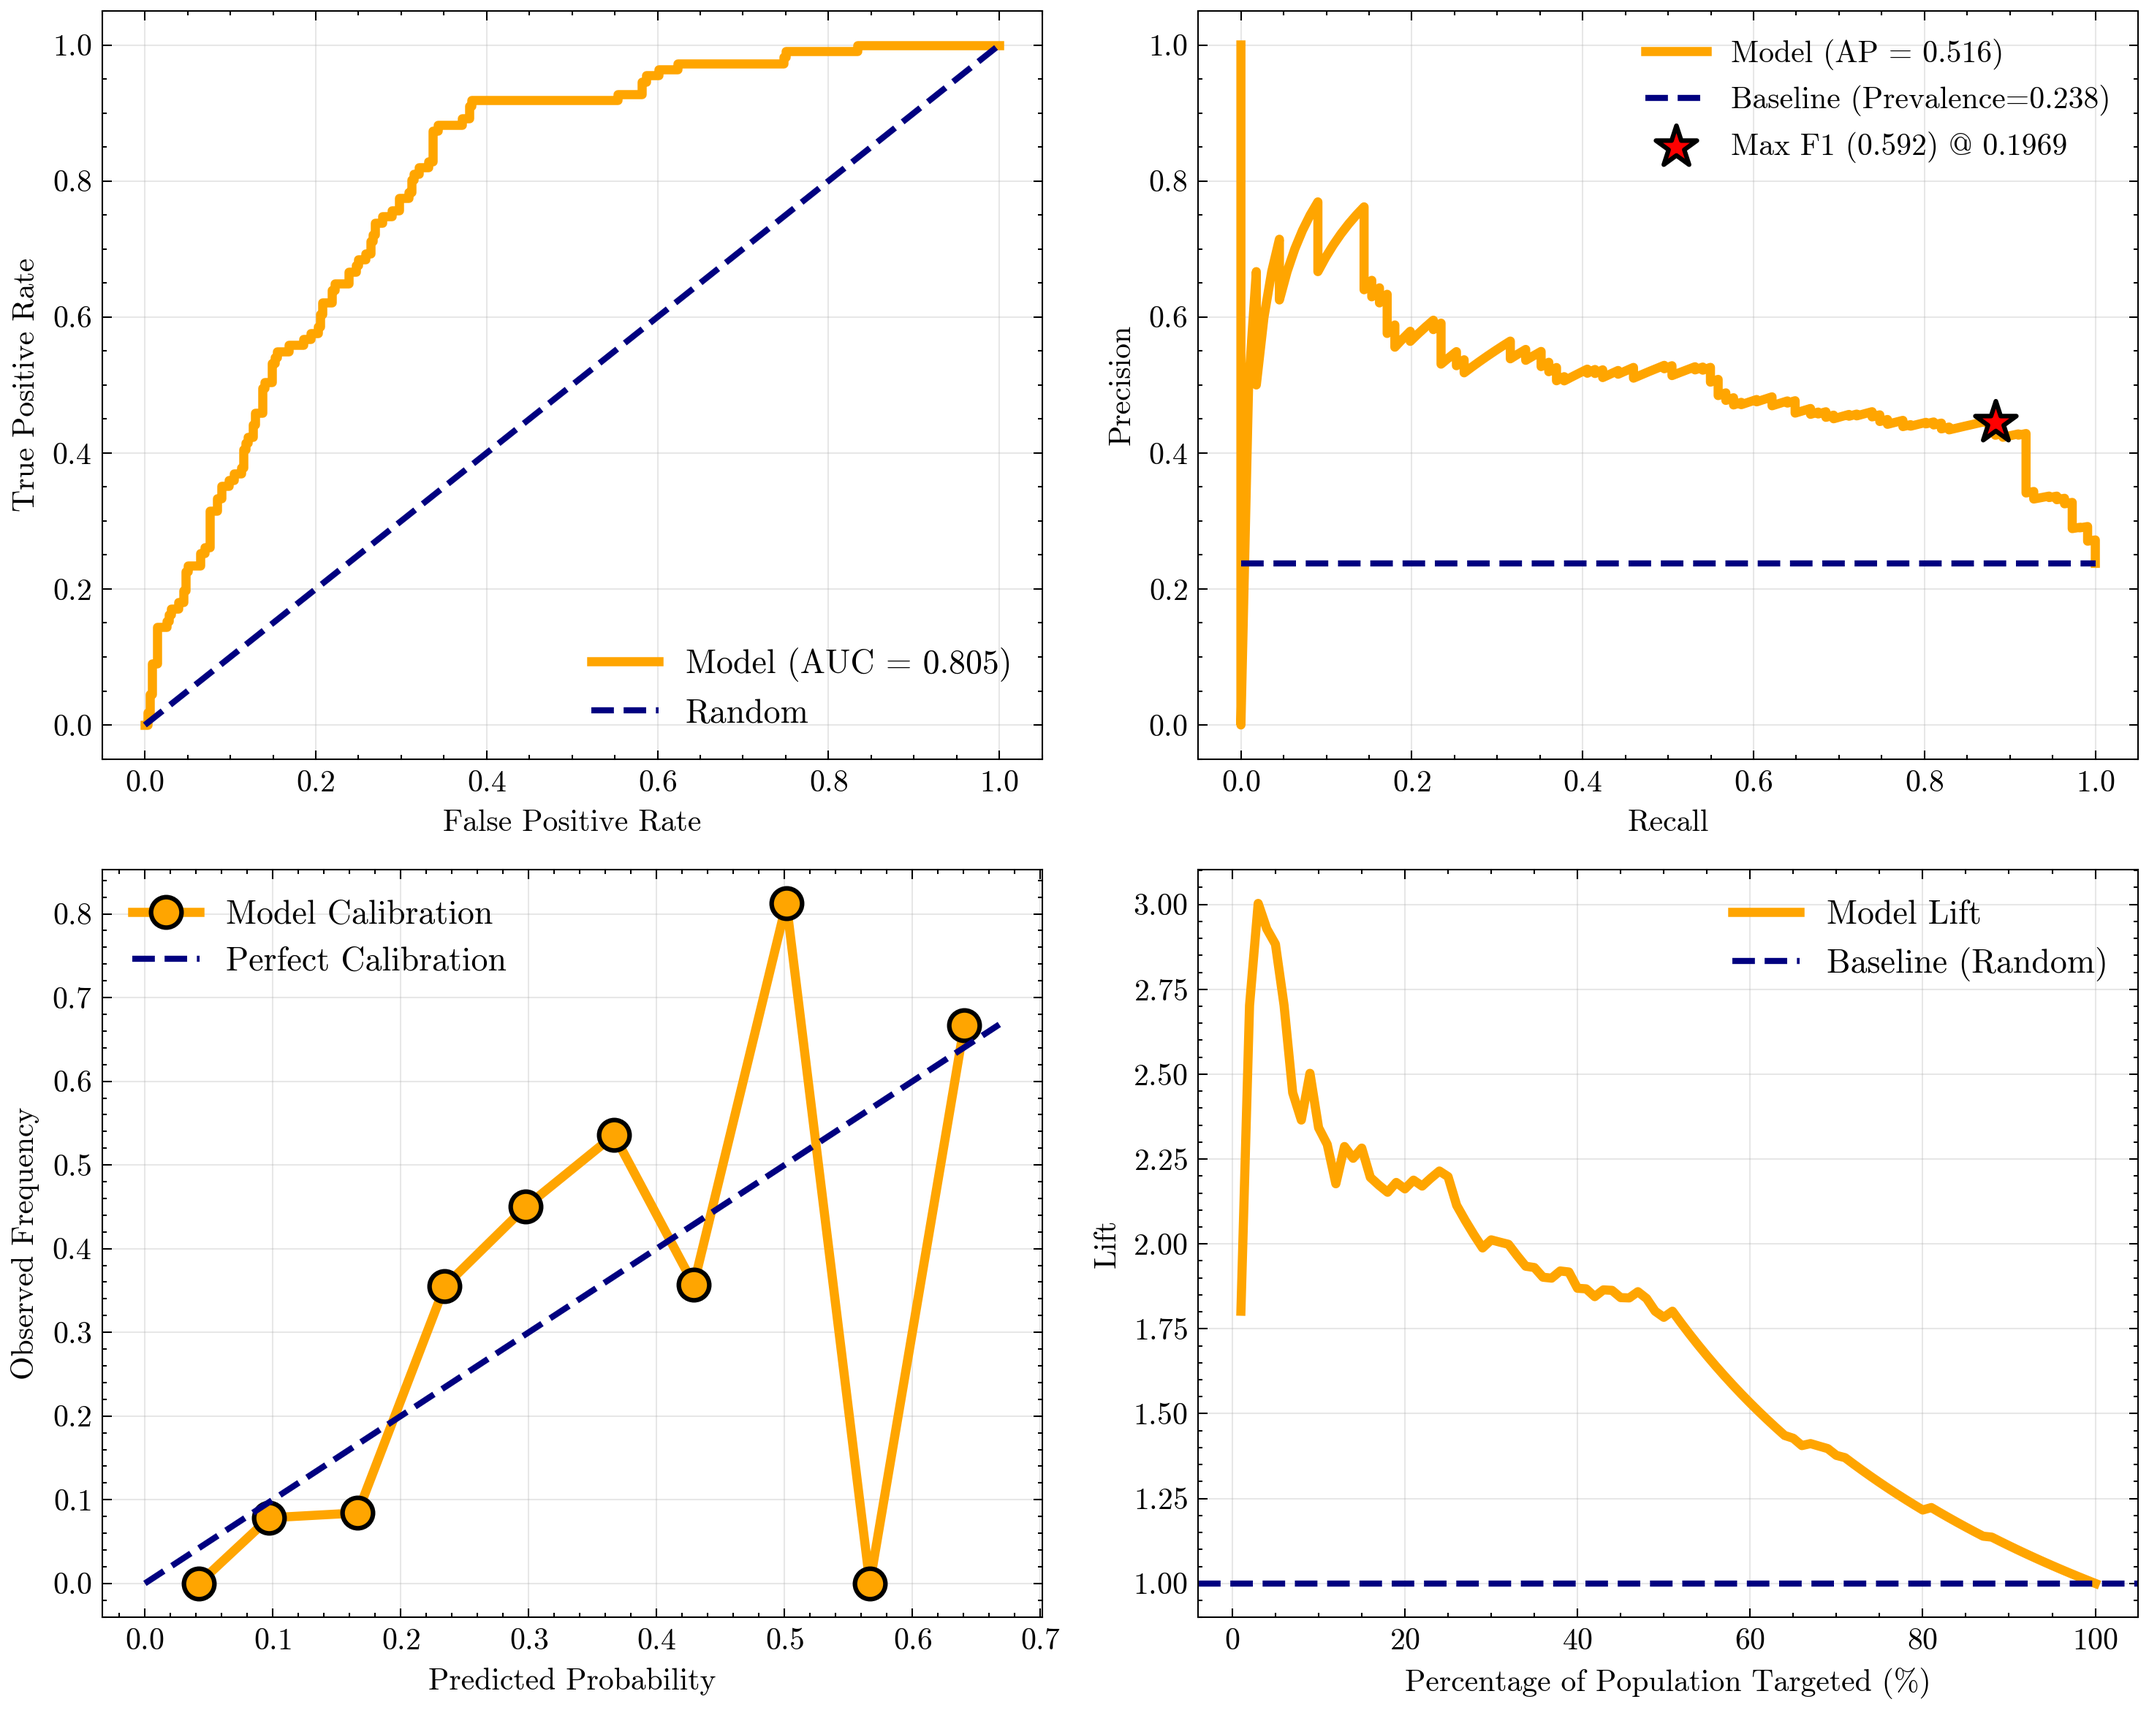
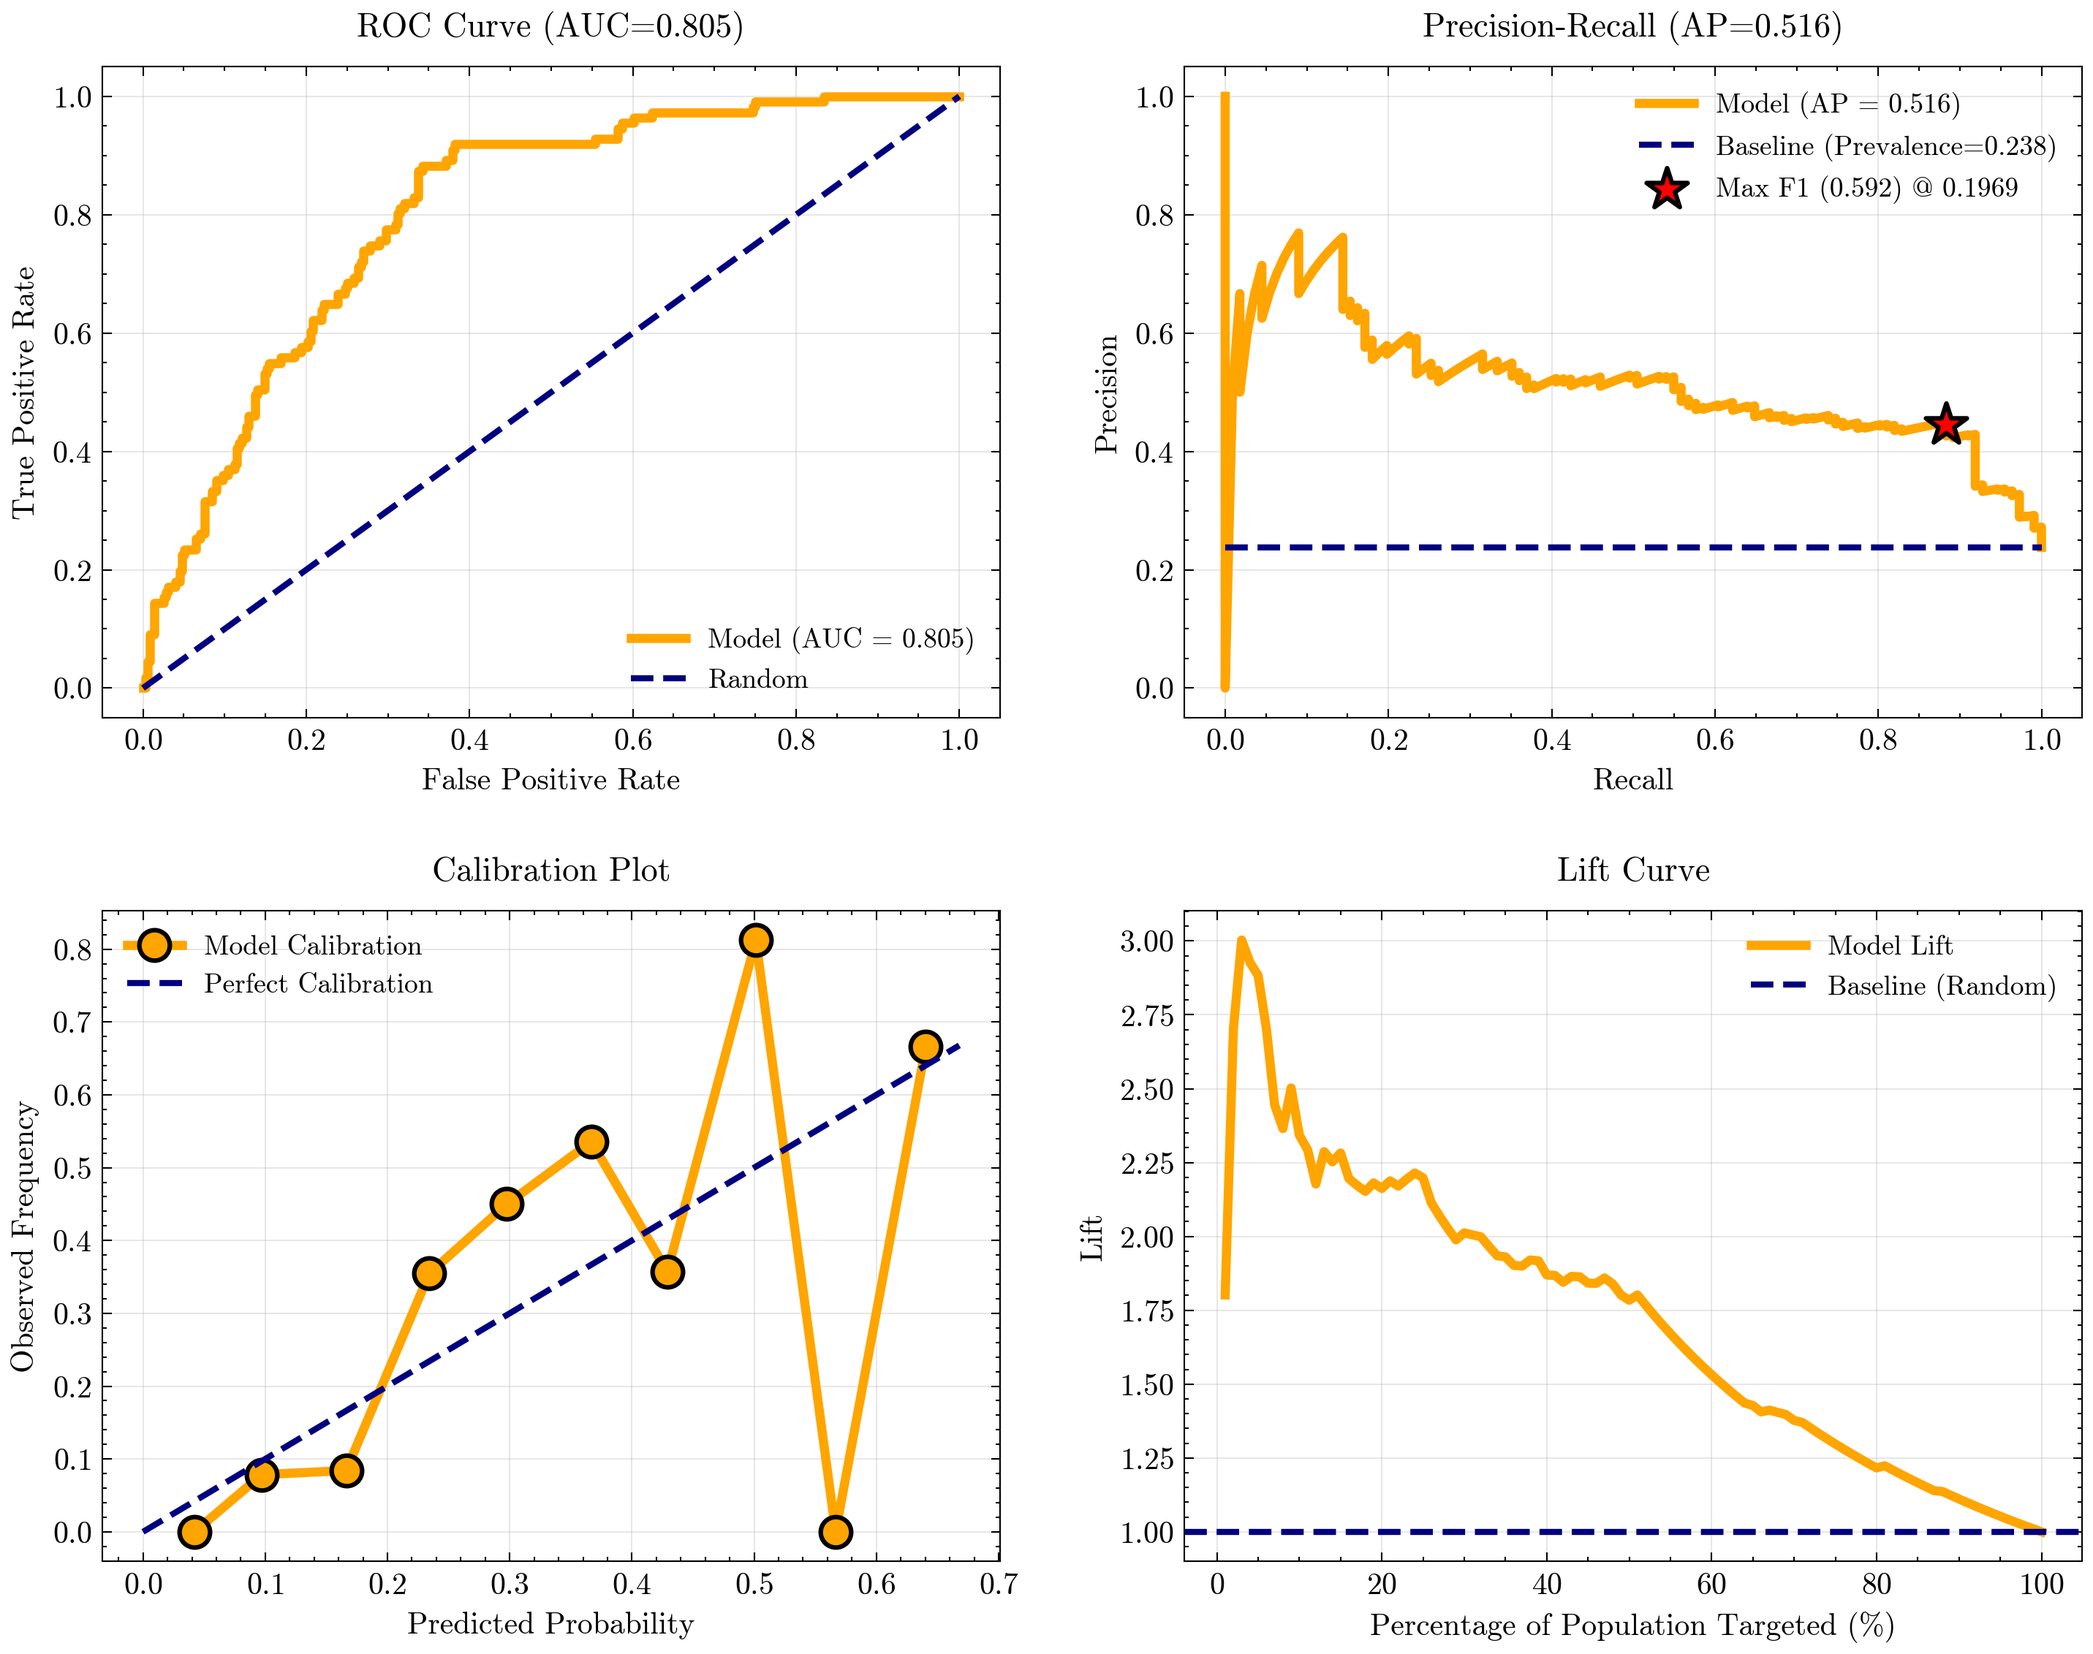
Fix R² superscript rendering in validation plots
Changed R² to R$^2$ for proper matplotlib rendering with scienceplots.

BEFORE: R² displayed as 'Rfffl' or garbled text
AFTER: R² properly rendered with superscript 2

All 4 validation plots now show:
- Monthly (R²=0.679) - proper superscript
- Monthly Correlation (R²=0.679) - proper superscript
- Seasonal (R²=0.714) - proper superscript
- Seasonal Correlation (R²=0.714) - proper superscript

Also added subplot titles and increased padding to prevent overlap.

diff --git a/02_Model_Training/regenerate_validation_plots.py b/02_Model_Training/regenerate_validation_plots.py
@@ -86,9 +86,10 @@ def create_temporal_validation_plot(results, model_name, color, output_path):
            label='Actual', alpha=0.7, color='darkred')
     ax.bar(x + width/2, monthly_stats['predicted_fires'], width,
            label='Predicted (scaled)', alpha=0.7, color=color)
-    ax.set_xlabel('Month')
-    ax.set_ylabel('Fire Count')
-    ax.legend()
+    ax.set_xlabel('Month', fontsize=10)
+    ax.set_ylabel('Fire Count', fontsize=10)
+    ax.set_title(f'Monthly (R$^2$={monthly_r2:.3f})', fontsize=11, pad=10)
+    ax.legend(fontsize=9)
     ax.grid(True, alpha=0.3)
     ax.set_xticks(x)
 
@@ -105,12 +106,12 @@ def create_temporal_validation_plot(results, model_name, color, output_path):
     for _, row in monthly_stats.iterrows():
         ax.annotate(f"{int(row['month'])}",
                    (row['actual_fires'], row['predicted_fires']),
-                   xytext=(5, 5), textcoords='offset points', fontsize=9,
-                   fontweight='bold')
+                   xytext=(5, 5), textcoords='offset points', fontsize=8)
 
-    ax.set_xlabel('Actual Fires')
-    ax.set_ylabel('Predicted Fires')
-    ax.legend()
+    ax.set_xlabel('Actual Fires', fontsize=10)
+    ax.set_ylabel('Predicted Fires', fontsize=10)
+    ax.set_title(f'Monthly Correlation (R$^2$={monthly_r2:.3f})', fontsize=11, pad=10)
+    ax.legend(fontsize=9)
     ax.grid(True, alpha=0.3)
 
     # Seasonal bar plot
@@ -120,11 +121,12 @@ def create_temporal_validation_plot(results, model_name, color, output_path):
            label='Actual', alpha=0.7, color='darkred')
     ax.bar(x_pos + width/2, seasonal_stats['predicted_fires'], width,
            label='Predicted', alpha=0.7, color=color)
-    ax.set_xlabel('Season')
-    ax.set_ylabel('Fire Count')
+    ax.set_xlabel('Season', fontsize=10)
+    ax.set_ylabel('Fire Count', fontsize=10)
+    ax.set_title(f'Seasonal (R$^2$={seasonal_r2:.3f})', fontsize=11, pad=10)
     ax.set_xticks(x_pos)
-    ax.set_xticklabels(seasonal_stats['season'])
-    ax.legend()
+    ax.set_xticklabels(seasonal_stats['season'], fontsize=9)
+    ax.legend(fontsize=9)
     ax.grid(True, alpha=0.3)
 
     # Seasonal scatter plot
@@ -140,19 +142,20 @@ def create_temporal_validation_plot(results, model_name, color, output_path):
     for _, row in seasonal_stats.iterrows():
         ax.annotate(row['season'],
                    (row['actual_fires'], row['predicted_fires']),
-                   xytext=(5, 5), textcoords='offset points', fontsize=10,
-                   fontweight='bold')
+                   xytext=(5, 5), textcoords='offset points', fontsize=9)
 
-    ax.set_xlabel('Actual Fires')
-    ax.set_ylabel('Predicted Fires')
-    ax.legend()
+    ax.set_xlabel('Actual Fires', fontsize=10)
+    ax.set_ylabel('Predicted Fires', fontsize=10)
+    ax.set_title(f'Seasonal Correlation (R$^2$={seasonal_r2:.3f})', fontsize=11, pad=10)
+    ax.legend(fontsize=9)
     ax.grid(True, alpha=0.3)
 
-    plt.tight_layout()
+    plt.tight_layout(pad=2.0)
     plt.savefig(output_path, bbox_inches='tight')
     plt.close()
 
     print(f"  ✓ Saved: {output_path.name}")
+    print(f"    Monthly R^2: {monthly_r2:.3f}, Seasonal R^2: {seasonal_r2:.3f}")
 
 
 def create_performance_validation_plot(results, model_name, color, output_path):
@@ -175,9 +178,10 @@ def create_performance_validation_plot(results, model_name, color, output_path):
     roc_auc = auc(fpr, tpr)
     ax.plot(fpr, tpr, color=color, lw=3, label=f'Model (AUC = {roc_auc:.3f})')
     ax.plot([0, 1], [0, 1], color='navy', lw=2, linestyle='--', label='Random')
-    ax.set_xlabel('False Positive Rate')
-    ax.set_ylabel('True Positive Rate')
-    ax.legend(fontsize=11)
+    ax.set_xlabel('False Positive Rate', fontsize=10)
+    ax.set_ylabel('True Positive Rate', fontsize=10)
+    ax.set_title(f'ROC Curve (AUC={roc_auc:.3f})', fontsize=11, pad=10)
+    ax.legend(fontsize=9)
     ax.grid(True, alpha=0.3)
 
     # PLOT 2: PRECISION-RECALL CURVE
@@ -200,9 +204,10 @@ def create_performance_validation_plot(results, model_name, color, output_path):
               color='red', s=200, zorder=5, edgecolors='black', linewidth=1.5,
               label=f'Max F1 ({max_f1:.3f}) @ {optimal_threshold:.4f}')
 
-    ax.set_xlabel('Recall')
-    ax.set_ylabel('Precision')
-    ax.legend(fontsize=10)
+    ax.set_xlabel('Recall', fontsize=10)
+    ax.set_ylabel('Precision', fontsize=10)
+    ax.set_title(f'Precision-Recall (AP={pr_auc:.3f})', fontsize=11, pad=10)
+    ax.legend(fontsize=9)
     ax.grid(True, alpha=0.3)
 
     # PLOT 3: CALIBRATION PLOT
@@ -232,9 +237,10 @@ def create_performance_validation_plot(results, model_name, color, output_path):
            label='Model Calibration')
     ax.plot([0, mean_prob.max()], [0, mean_prob.max()],
            color='navy', lw=2, linestyle='--', label='Perfect Calibration')
-    ax.set_xlabel('Predicted Probability')
-    ax.set_ylabel('Observed Frequency')
-    ax.legend(fontsize=11)
+    ax.set_xlabel('Predicted Probability', fontsize=10)
+    ax.set_ylabel('Observed Frequency', fontsize=10)
+    ax.set_title('Calibration Plot', fontsize=11, pad=10)
+    ax.legend(fontsize=9)
     ax.grid(True, alpha=0.3)
 
     # PLOT 4: LIFT CURVE
@@ -256,12 +262,13 @@ def create_performance_validation_plot(results, model_name, color, output_path):
 
     ax.plot(percentiles, lift, color=color, lw=3, label='Model Lift')
     ax.axhline(y=1, color='navy', lw=2, linestyle='--', label='Baseline (Random)')
-    ax.set_xlabel('Percentage of Population Targeted (%)')
-    ax.set_ylabel('Lift')
-    ax.legend(fontsize=11)
+    ax.set_xlabel('Percentage of Population Targeted (%)', fontsize=10)
+    ax.set_ylabel('Lift', fontsize=10)
+    ax.set_title('Lift Curve', fontsize=11, pad=10)
+    ax.legend(fontsize=9)
     ax.grid(True, alpha=0.3)
 
-    plt.tight_layout()
+    plt.tight_layout(pad=2.0)
     plt.savefig(output_path, bbox_inches='tight')
     plt.close()
 
